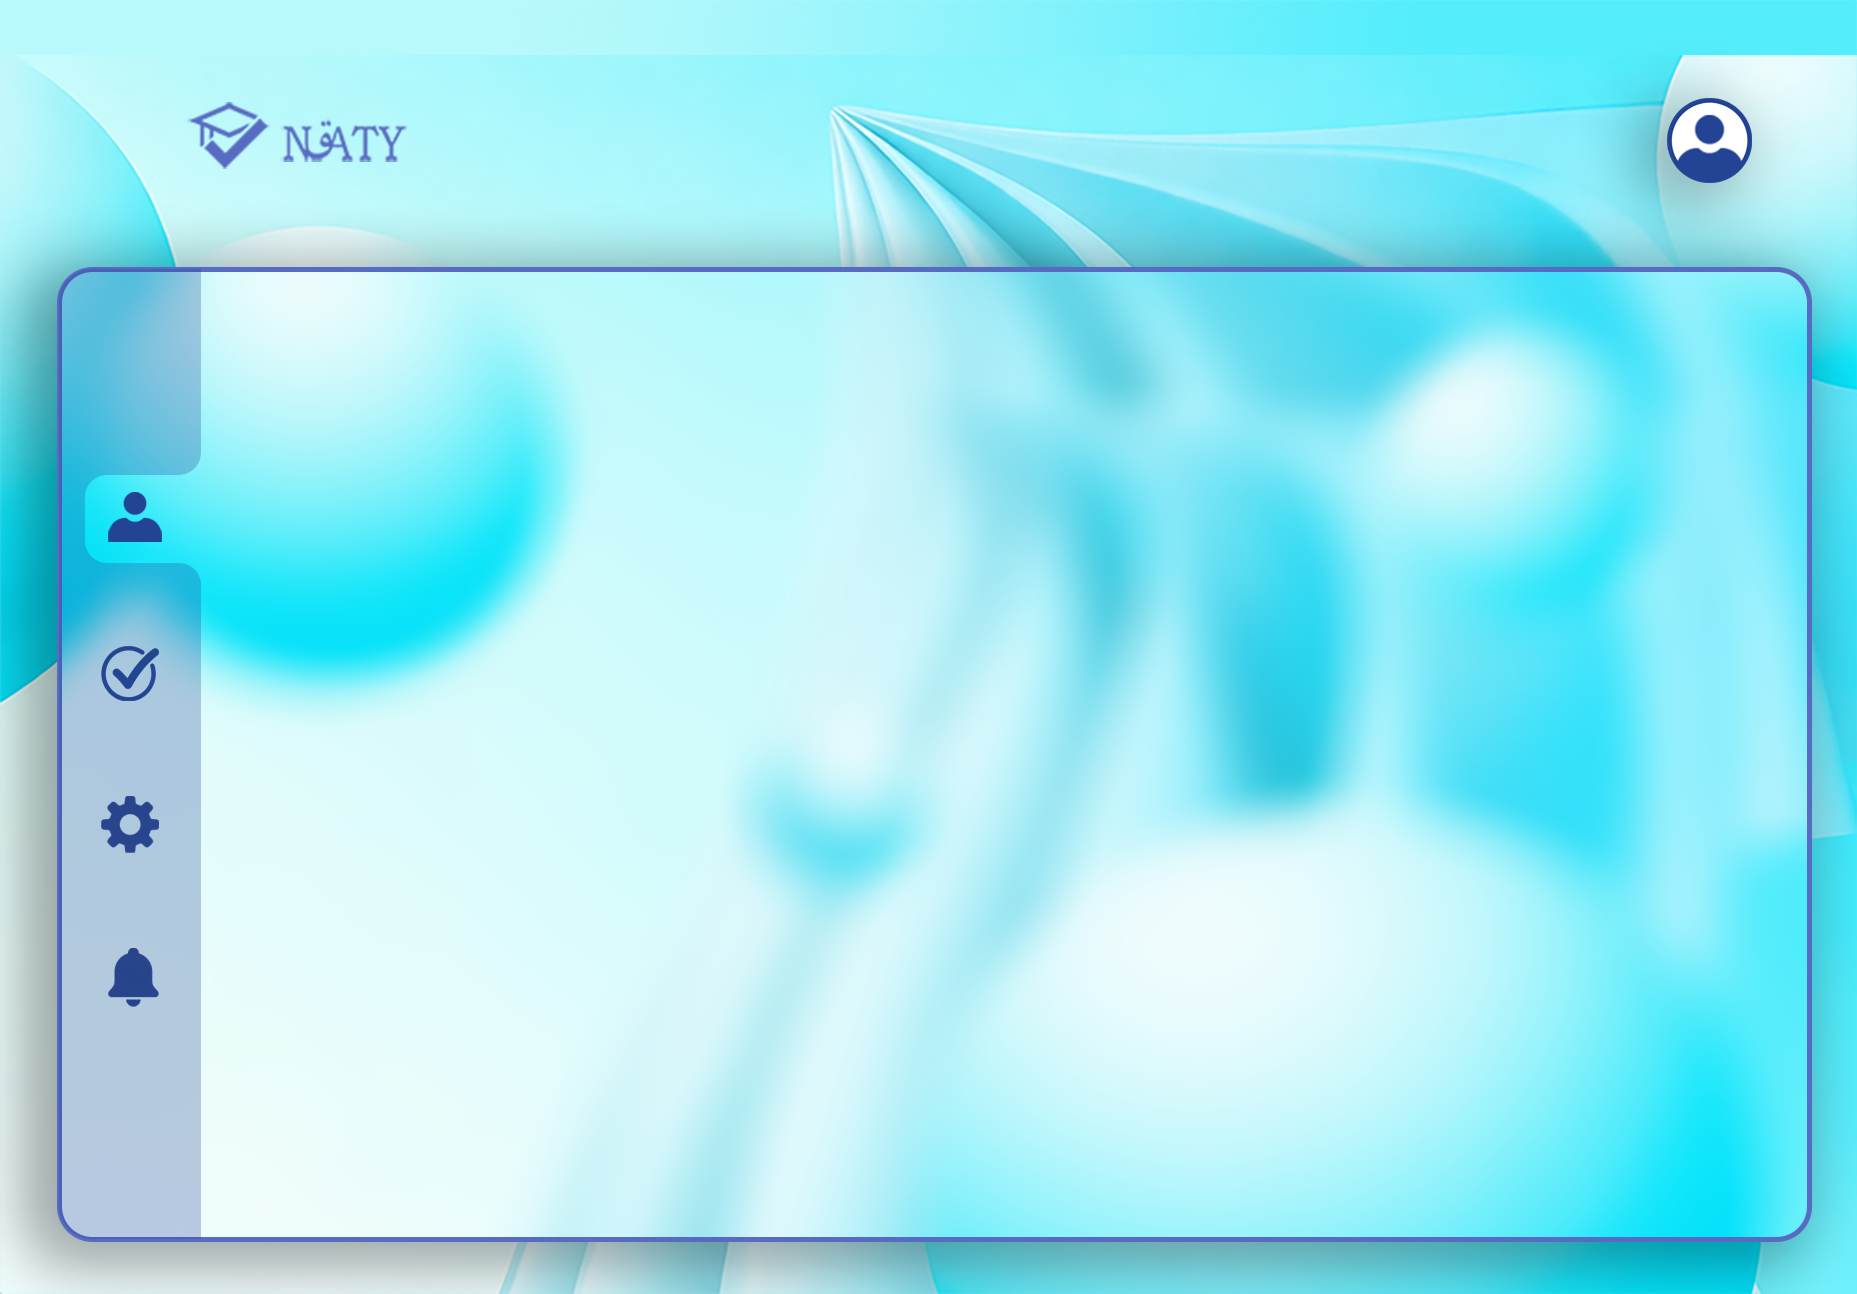
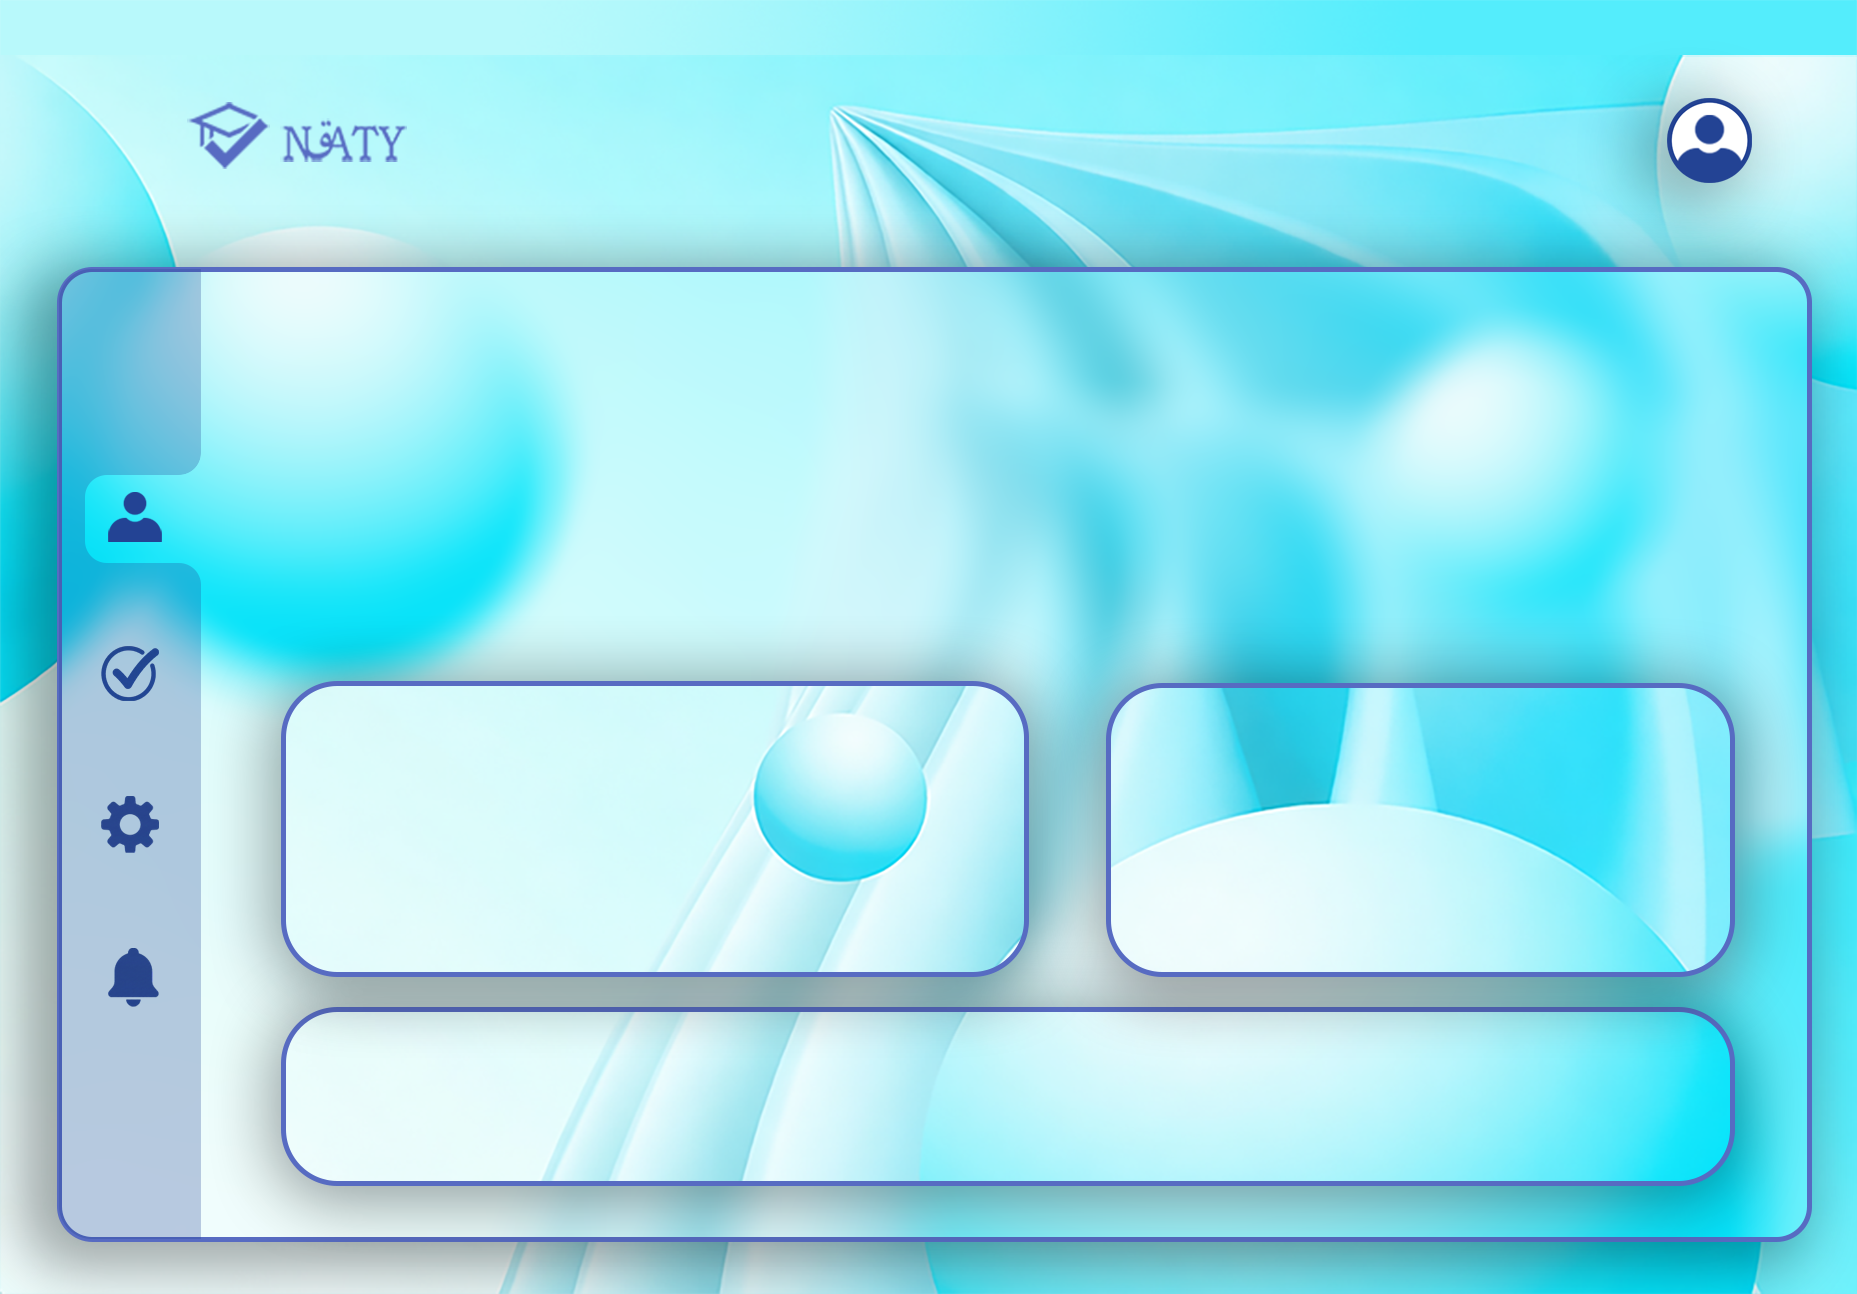
version-4.2

Changed region(s): [[0.1249, 0.4946, 0.9682, 0.9583]]

diff --git a/src/propos.java b/src/propos.java
@@ -1,5 +1,4 @@
 import java.awt.Color;
-import java.awt.Font;
 import java.awt.Graphics;
 import java.awt.Image;
 import java.io.File;
@@ -22,7 +21,7 @@ public final class propos extends JPanel {
     public propos() {
 
         try {
-            backgroundImage = ImageIO.read(new File("data/pg_home.png"));
+            backgroundImage = ImageIO.read(new File("data/pg_propos.png"));
         } catch (IOException e) {
             System.err.println("Error: Could not load pg_home.png");
         }
@@ -33,18 +32,6 @@ public final class propos extends JPanel {
         Color perpul = new Color(87, 107, 194);
        
 
-        JLabel seconnecter = new JLabel("Se connecter");
-        seconnecter.setForeground(perpul);
-        seconnecter.setFont(new Font("Arial", Font.BOLD, 18));
-        seconnecter.setBounds(640, 220, 230, 30);
-        this.add(seconnecter); 
-
-
-        JLabel text1 = new JLabel("<html><body style=' text-align: center;'> Cettrme est un système de gestion des notes conçu pour faciliter le suivi académique.</body></html>");
-        text1.setForeground(perpul);
-        text1.setFont(new Font("Arial" , Font.BOLD, 14));
-        text1.setBounds(90 , 320 , 350, 50);
-        this.add(text1);
 
         JButton acceuille = Functions.creerMenu("Acceuille", 300, 60, perpul, Acceuille.class, this);
         JButton contact = Functions.creerMenu("Contact", 440, 60, perpul, contact.class, this);

diff --git a/src/motDePasseOublier.java b/src/motDePasseOublier.java
@@ -23,6 +23,8 @@ public final class motDePasseOublier extends JPanel{
 
     private final JLabel line1 , line2 , line3 , line4;
 
+
+
     ImageIcon icon_1  = new ImageIcon(new ImageIcon("data/icon1.png").getImage().getScaledInstance(260, 30, Image.SCALE_SMOOTH));
     ImageIcon icon_2  = new ImageIcon(new ImageIcon("data/icon2.png").getImage().getScaledInstance(260, 30, Image.SCALE_SMOOTH));
 
@@ -191,12 +193,12 @@ public final class motDePasseOublier extends JPanel{
         
 
 
-
-
-        
-        
-
         this.add(vld);
+
+
+
+
+  
 
 
 

diff --git a/src/Main.java b/src/Main.java
@@ -14,6 +14,9 @@ public class Main {
         //Etudient_notes lge = new Etudient_notes();
         //LoginEtudient lge = new LoginEtudient();
         //Etudient_notes lge = new Etudient_notes();
+
+
+ 
         
 
 
